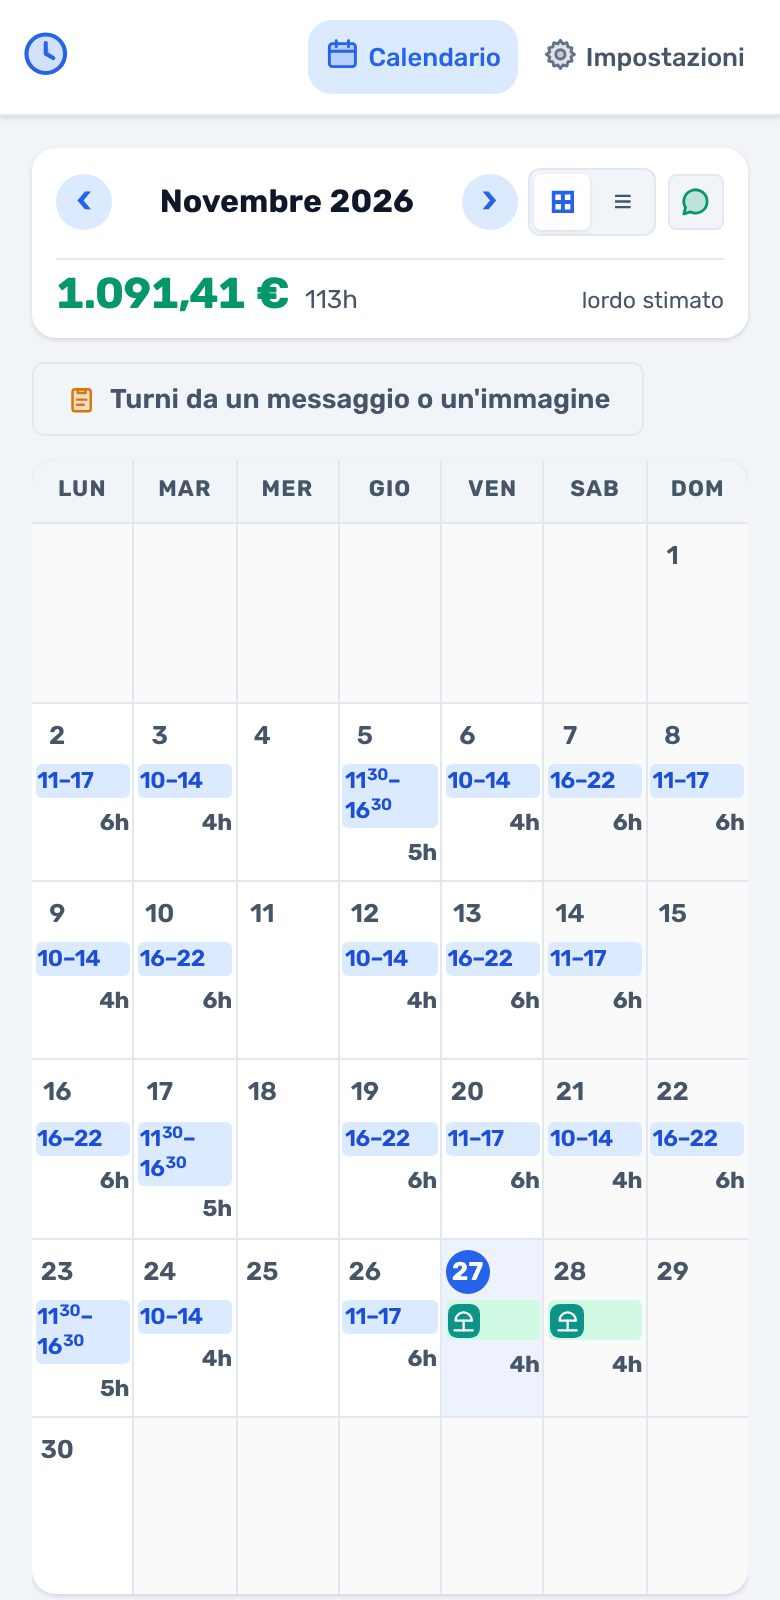
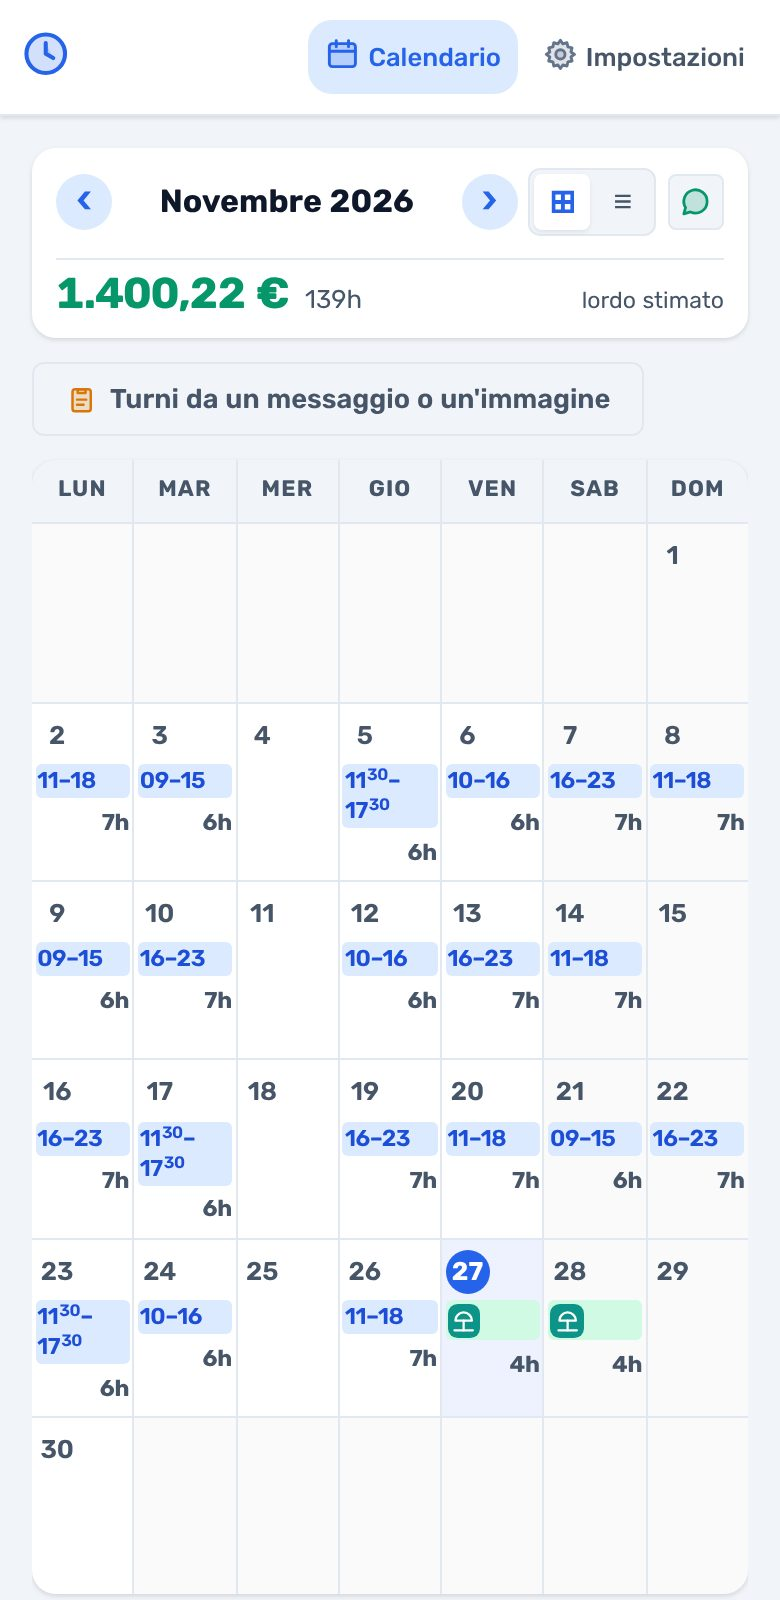
Vetrina: la prima riga del titolo cambia a ogni apertura
«Sei ore di domenica.», «Otto ore a Ferragosto.», «Il turno di Natale.»…
sopra la domanda fissa «Quanto ti entra in busta?», con un'entrata
sfumata (niente animazione con «meno animazioni» del sistema). Lo sceglie
frasi.js, dal sito stesso come vuole la CSP; senza JavaScript resta la
frase scritta nella pagina. Lo screenshot ha turni più lunghi: 1.400,22 €.

Claude-Session: https://claude.ai/code/session_01BrKz16xDWUAVbTbnAUnyoZ

diff --git a/public/benvenuto/index.html b/public/benvenuto/index.html
@@ -1,12 +1,13 @@
 <!doctype html>
 <html lang="it"><head><meta charset="utf-8"><meta name="viewport" content="width=device-width,initial-scale=1">
-<!-- Vetrina di prova (novembre 2026, terza versione). Nessun modulo, nessuno
-     script nostro. «Mi interessa» porta a /benvenuto/grazie/, che il contatore
+<!-- Vetrina di prova (novembre 2026, terza versione). Nessun modulo; un solo
+     script nostro, frasi.js, che sceglie la prima riga del titolo. «Mi interessa» porta a /benvenuto/grazie/, che il contatore
      visite conta come pagina: è tutta la misura dell'interesse, senza un dato
      in più. Lo screenshot è l'app vera, con turni inventati. -->
 <title>Turni — quanto hai guadagnato questo mese</title>
 <meta name="description" content="Segni i turni e vedi quanto hai guadagnato, lordo e netto. Nessun account, nessun server: i dati restano sul tuo telefono.">
 <meta name="robots" content="noindex">
+<script src="/benvenuto/frasi.js"></script>
 <style>
 :root{
   --azzurro:#e9f2ff; --azzurro2:#d6e6ff; --blu:#2c5fe8; --blu-scuro:#1c3f9e; --blu-chiaro:#7fa8ff;
@@ -29,7 +30,10 @@ header .w{display:flex;justify-content:space-between;align-items:center;height:6
 header a.app{font-weight:700;font-size:15px;text-decoration:none;color:var(--blu-scuro)}
 .apertura .w{display:grid;grid-template-columns:1.1fr .9fr;gap:40px;align-items:center;padding-top:20px;padding-bottom:64px}
 h1{font-weight:800;font-size:52px;line-height:1.06;letter-spacing:-1.2px;margin:0 0 20px}
-h1 span{color:var(--blu)}
+h1 .frase{display:block;color:var(--blu)}
+.js h1 .frase{opacity:0;transform:translateY(.3em);filter:blur(4px)}
+.js h1 .frase.entra{opacity:1;transform:none;filter:none;transition:opacity .7s ease,transform .7s cubic-bezier(.2,.7,.2,1),filter .7s ease}
+@media (prefers-reduced-motion:reduce){.js h1 .frase,.js h1 .frase.entra{opacity:1;transform:none;filter:none;transition:none}}
 .apertura p{font-size:19px;color:var(--grigio);max-width:500px;margin:0 0 26px}
 .punti{display:flex;flex-wrap:wrap;gap:10px 22px;margin-top:26px;font-size:15px;font-weight:600;color:var(--blu-scuro)}
 .punti span{display:flex;align-items:center;gap:7px}
@@ -104,8 +108,8 @@ footer .w{display:flex;justify-content:space-between;gap:16px;flex-wrap:wrap}
 </div></header>
 <div class="apertura"><div class="w">
   <div>
-    <h1>Segni il turno.<br><span>Sai quanto hai guadagnato.</span></h1>
-    <p>Ore, supplementari, domeniche, festivi: Turni fa i conti come la tua busta paga, mentre segni. E tutto resta sul tuo telefono.</p>
+    <h1><span class="frase" data-frase>Sei ore di domenica.</span>Quanto ti entra in busta?</h1>
+    <p>Segni il turno e lo sai subito: supplementari, domeniche, festivi, notturno, fino al netto. Turni fa i conti come la tua busta paga, e tutto resta sul tuo telefono.</p>
     <a class="btn" href="/">Apri l'app, è gratis</a>
     <div class="punti">
       <span><svg width="18" height="18" viewBox="0 0 24 24" aria-hidden="true"><rect x="5" y="10" width="14" height="10" rx="2.5" fill="none" stroke="currentColor" stroke-width="2"/><path d="M8 10V7.5a4 4 0 018 0V10" fill="none" stroke="currentColor" stroke-width="2"/></svg>Nessun account</span>
@@ -113,7 +117,7 @@ footer .w{display:flex;justify-content:space-between;gap:16px;flex-wrap:wrap}
       <span><svg width="18" height="18" viewBox="0 0 24 24" aria-hidden="true"><circle cx="12" cy="12" r="9" fill="none" stroke="currentColor" stroke-width="2"/><path d="M8 12.5l2.7 2.7L16 10" fill="none" stroke="currentColor" stroke-width="2" stroke-linecap="round" stroke-linejoin="round"/></svg>Gratis</span>
     </div>
   </div>
-  <div class="telefono"><img src="/benvenuto/calendario.jpg" width="780" height="1600" alt="Il calendario di Turni a novembre: i turni del mese e in alto il lordo stimato, 1.091,41 €"></div>
+  <div class="telefono"><img src="/benvenuto/calendario.jpg" width="780" height="1600" alt="Il calendario di Turni a novembre: i turni del mese e in alto il lordo stimato, 1.400,22 €"></div>
 </div></div>
 </div>
 

diff --git a/public/benvenuto/frasi.js b/public/benvenuto/frasi.js
@@ -1,0 +1,24 @@
+// La prima riga del titolo cambia a ogni apertura: un turno vero, diverso
+// ogni volta, sopra la domanda fissa. Non salva niente e non manda niente.
+// Senza JavaScript resta la frase scritta nella pagina.
+(function () {
+  var FRASI = [
+    'Sei ore di domenica.',
+    'Otto ore a Ferragosto.',
+    'Un turno fino all’una di notte.',
+    'Tre ore oltre l’orario.',
+    'Il turno di Natale.',
+    'Una settimana di ferie.',
+    'Quattro ore in più sabato.',
+  ];
+  document.documentElement.classList.add('js');
+  document.addEventListener('DOMContentLoaded', function () {
+    var el = document.querySelector('[data-frase]');
+    if (!el) return;
+    el.textContent = FRASI[Math.floor(Math.random() * FRASI.length)];
+    // Due fotogrammi: il browser disegna lo stato nascosto, poi la frase entra.
+    requestAnimationFrame(function () {
+      requestAnimationFrame(function () { el.classList.add('entra'); });
+    });
+  });
+})();
